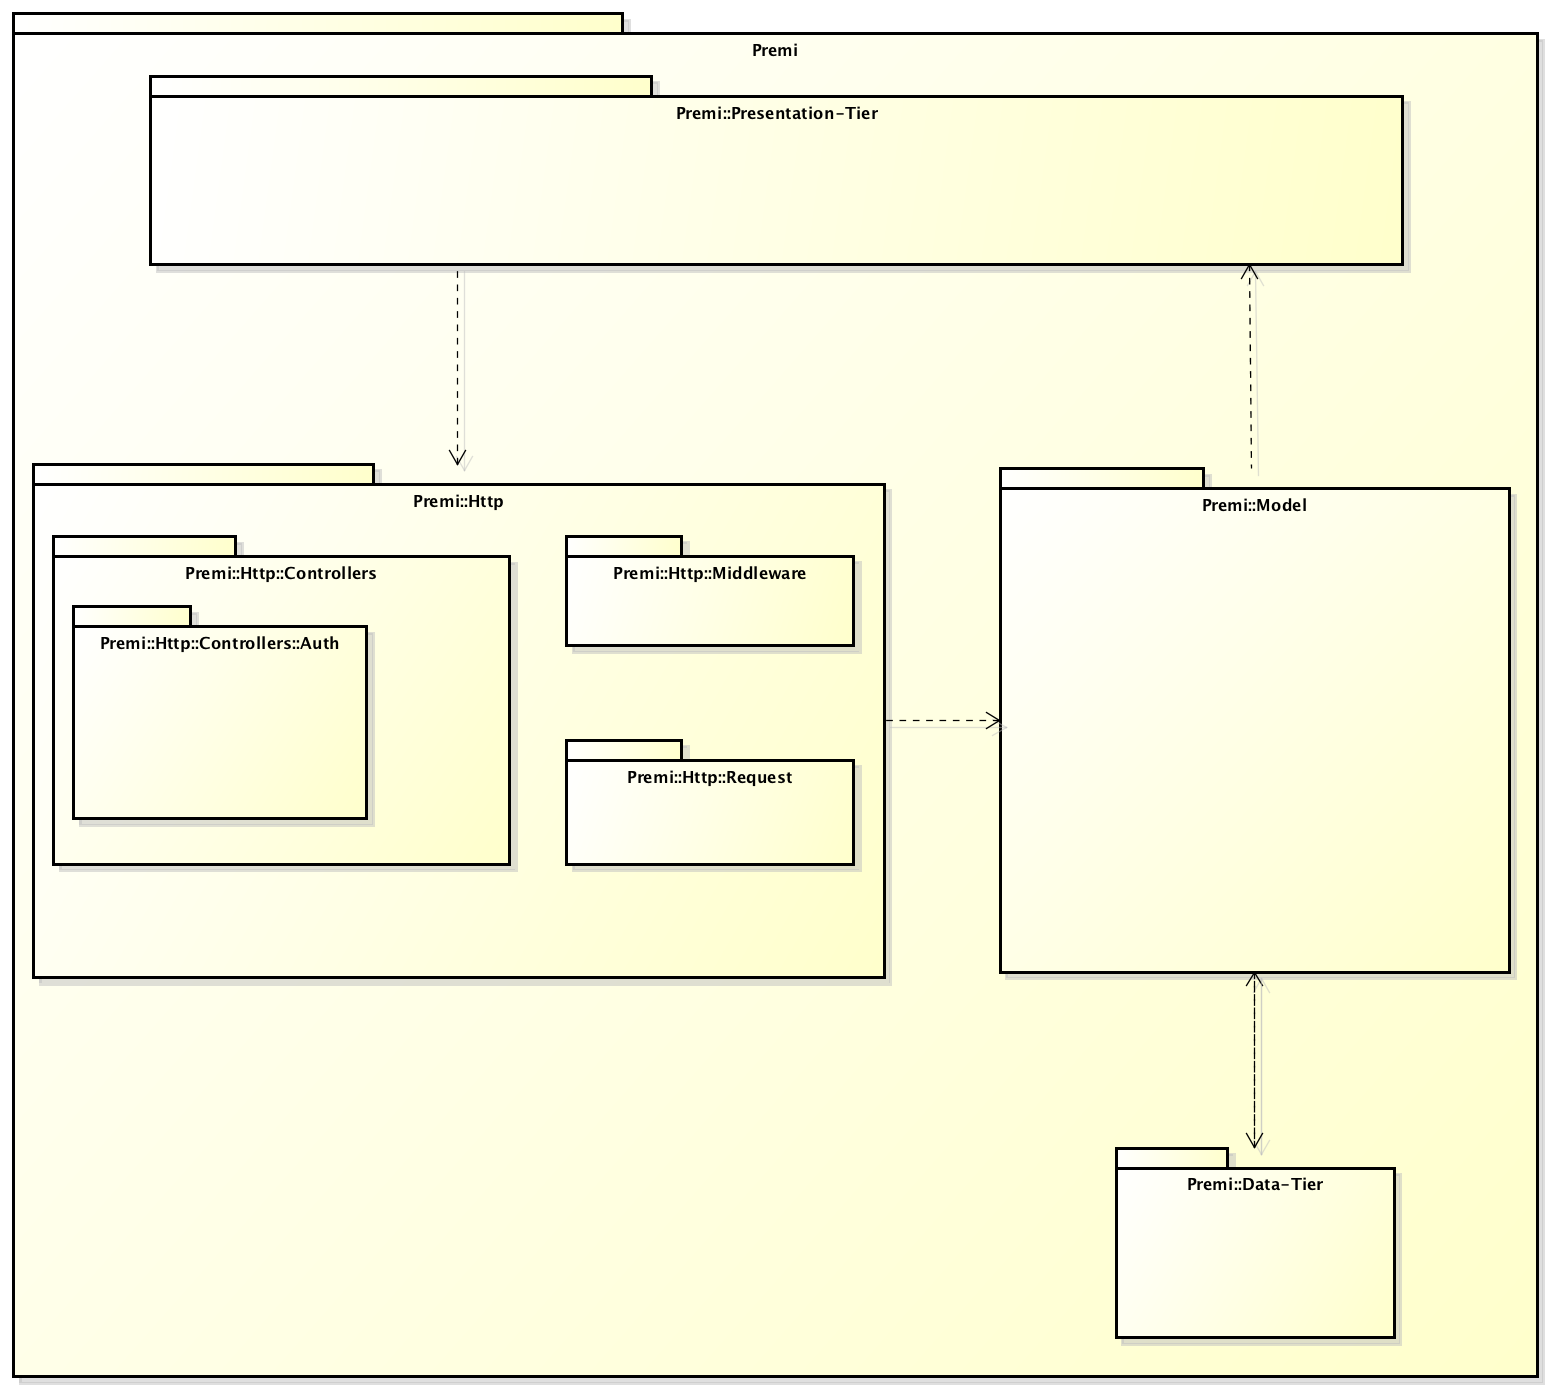
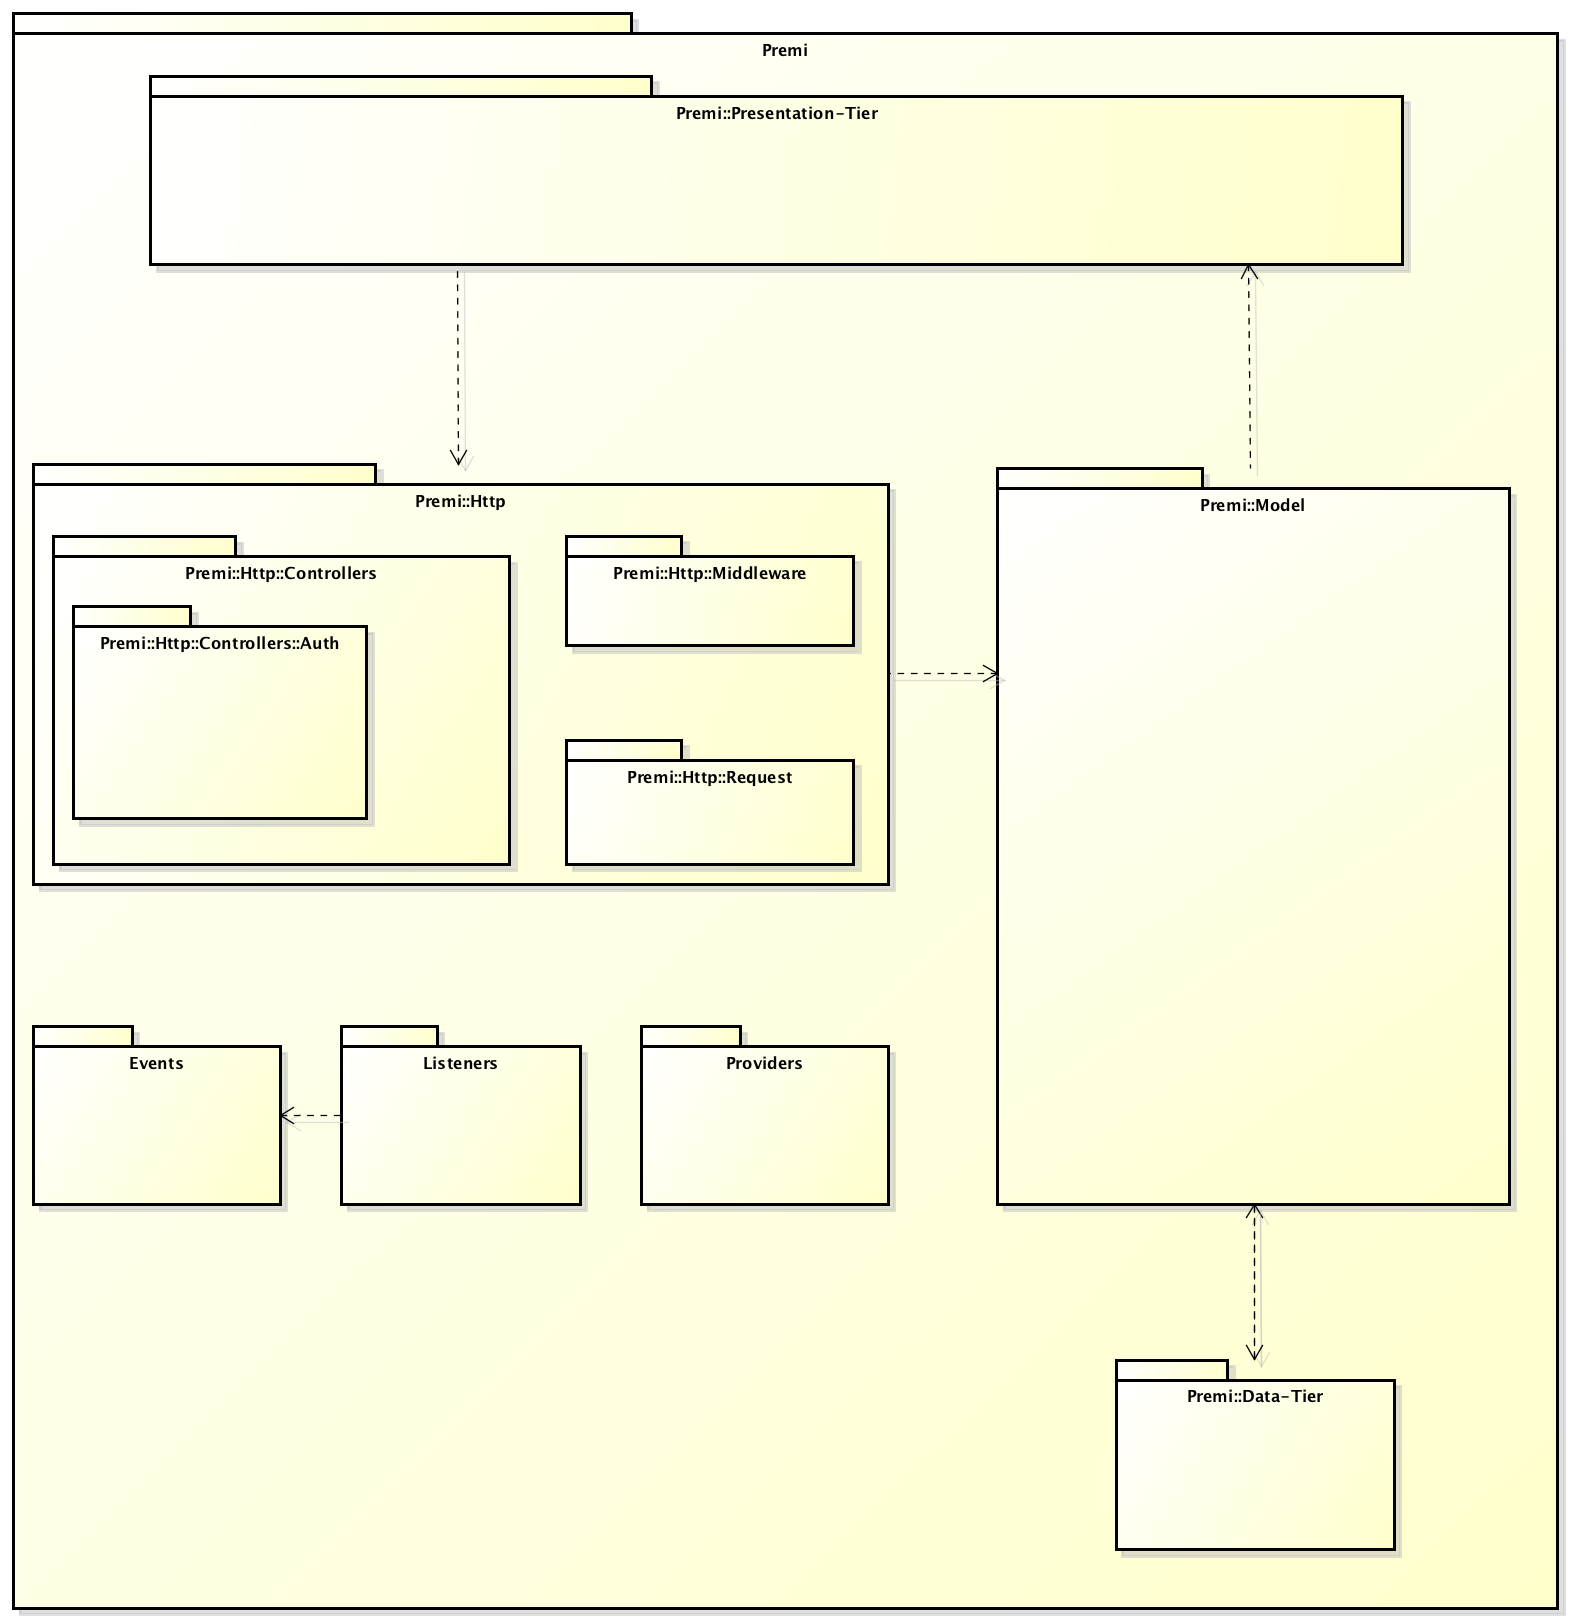
Aggiunto package Events, Listeners, Providers

Changed region(s): [[0.0, 0.0, 1.0, 1.0], [0.0, 0.2475, 0.5884, 0.7734], [0.0929, 0.0619, 0.929, 0.2165]]

diff --git a/esterni/specifica_tecnica/section/architettura_back_end.tex b/esterni/specifica_tecnica/section/architettura_back_end.tex
@@ -12,6 +12,9 @@
 			\item Premi::Presentation-Tier;
 			\item Premi::Http;
 			\item Premi::Model;
+			\item Premi::Events;
+			\item Premi::Listeners;
+			\item Premi::Providers;
 			\item Premi::Data-Tier.
 		\end{itemize}
 
@@ -33,13 +36,16 @@
 	\begin{figure}[h]
 		\centering
 		\includegraphics[width=\linewidth]{img/back-end_logic-tier_package}
-		\caption[Premi::Http , Premi::Model]{Premi::Http , Premi::Model}
+		\caption[*::Http , *::Model, *::Events, *::Listeners, *::Providers]{*::Http , *::Model, *::Events, *::Listeners, *::Providers}
 	\end{figure}
 	Il core dell'applicazione viene implementato dal Model, che incapsulando lo stato dell'applicazione definisce i dati e le operazioni che possono essere eseguite su questi. Il package Http contiene Il componente Controller che ha la responsabilità di trasformare le interazioni dell'utente in azioni eseguite dal Model.
 	
 	\subsubsection*{Package contenuti}
 	\begin{itemize}
 		\item Premi::Http;
+		\item Premi::Events;
+		\item Premi::Listeners;
+		\item Premi::Providers;
 		\item Premi::Model.
 	\end{itemize}
 
@@ -63,7 +69,7 @@
 		 \begin{itemize}
 		 	\item Premi::Http::Controllers;
 		 	\item Premi::Http::Middleware;
-		 	\item Premi::Http::Requests;
+		 	\item Premi::Http::Requests.
 		 \end{itemize}
 
 \newpage
@@ -227,6 +233,51 @@
 %		\end{itemize}
 %	\end{itemize}
 %	
+\newpage
+\subsection{Premi::Events}
+\begin{figure}[h]
+	\centering
+	\includegraphics[width=0.7\linewidth]{img/premi_events}
+	\caption[Premi::Events]{Premi::Events}
+	\label{fig:premi_events}
+\end{figure}
+
+\subsubsection*{Informazioni sul package}
+Il package permette di gestire l'applicazione attraverso gli eventi.
+\subsubsection*{Classi contenute}
+\begin{itemize}
+	\item \textbf{Event: }la classe Event fornisce una semplice implementazione di un observer, che permette di gestire l'applicazione attraverso gli eventi;
+	\item \textbf{ProjectWasCreated: }la classe è un container di dati che mantiene le informazioni relative all'evento creazione di un progetto.
+\end{itemize}
+
+\newpage
+\subsection{Premi::Listeners}
+\begin{figure}[h]
+	\centering
+	\includegraphics[width=0.7\linewidth]{img/premi_listeners}
+	\caption[Premi::Listeners]{Premi::Listeners}
+	\label{fig:premi_listeners}
+\end{figure}
+
+\subsubsection*{Informazioni sul package}
+Il package contiene tutti i handler delle classi evento. Gli event listeners ricevono ricevono un istanza di un evento nel loro metodo handle;
+\subsubsection*{Classi contenute}
+\begin{itemize}
+	\item \textbf{PresentationCreate; }
+	\item \textbf{SlideCreate; }
+\end{itemize}
+
+\subsection{Premi::Providers}
+\begin{figure}[h]
+	\centering
+	\includegraphics[width=0.6\linewidth]{img/premi_providers}
+	\caption[Premi::Providers]{Premi::Providers}
+	\label{fig:premi_providers}
+\end{figure}
+
+\subsubsection*{Informazioni sul package}
+Il package è la parte centrale delle operazioni di avvio l'applicazione di \gls{Laravel}. \gls{Laravel} compila e memorizza una lista di tutti i servizi forniti dai service provider differiti, insieme al nome della classe dei suoi service provider. Quindi, solo quando si tenta di risolvere uno di questi servizi \gls{Laravel} carica il service provider appropriato.
+
 
 \newpage
 \subsection{Premi::Model}
@@ -299,6 +350,8 @@
 \subsubsection*{Informazioni su Eloquent}
 Eloquent è l'ORM(Object Relational Mapping) incluso in Laravel: un'implementazione di Active Record. Tutti i model estendono  Eloquent in modo da creare e gestire l'interazione con la collection.
 
+
+\newpage
 \subsection{Data-Tier}
 \begin{figure}[h]
 \centering
